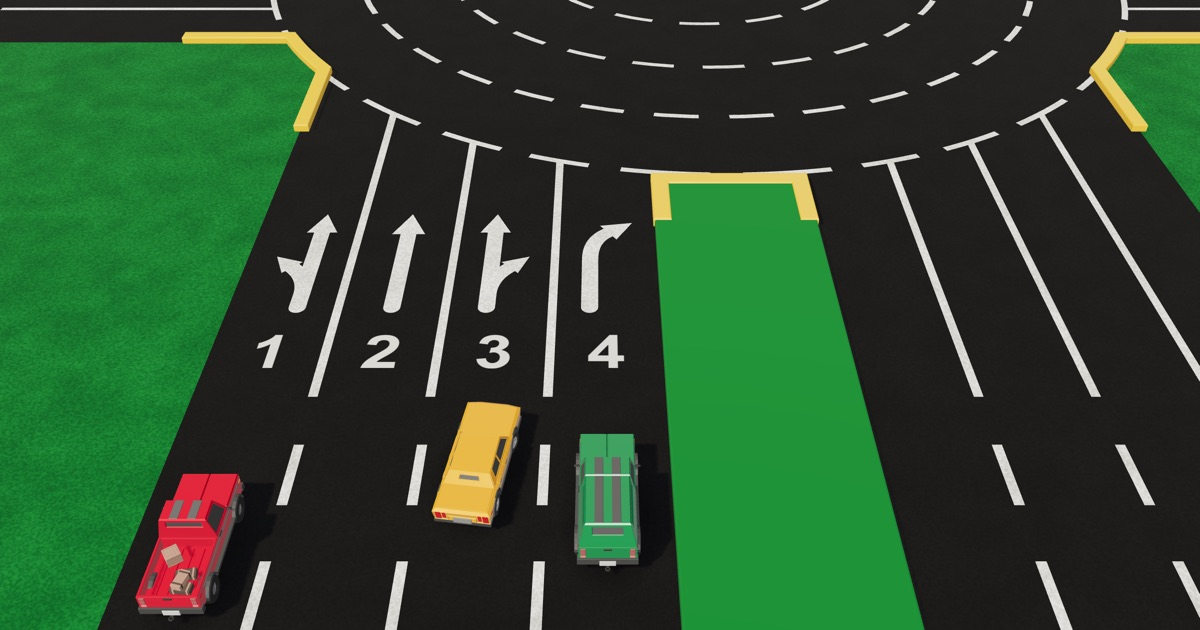
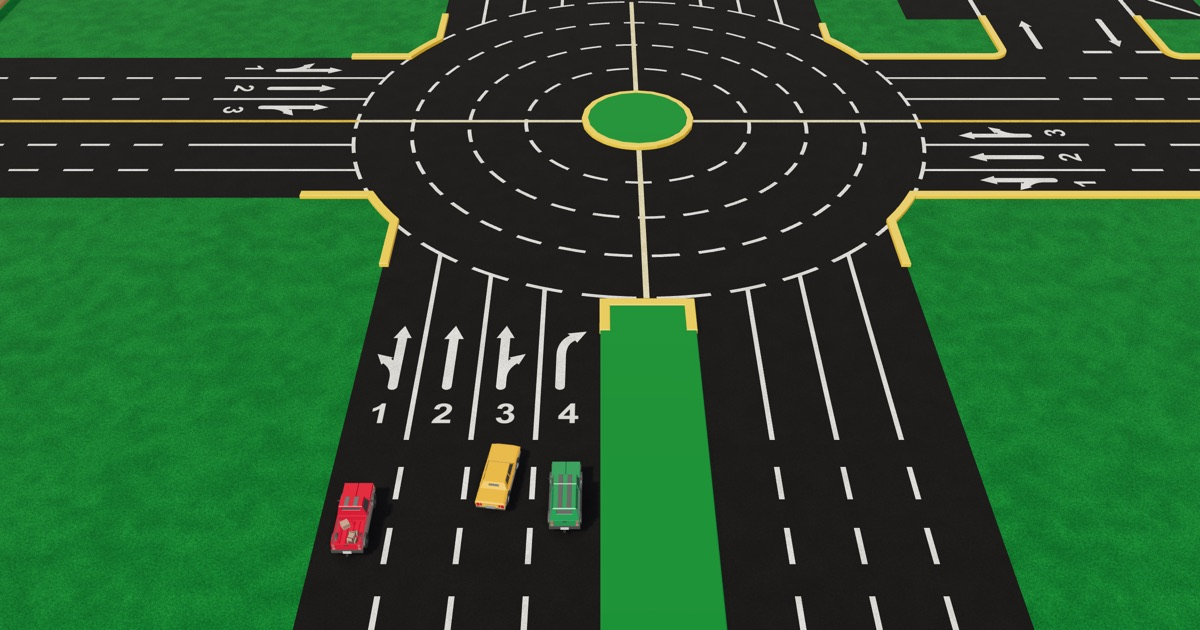
chore: recapture the board thumbnail with the roundabout cross
Widen the 3D still so the whole roundabout and its pale yellow cross are in
frame, with the lanes, their numbers and all three cars. Recaptured
poster.jpg, poster-2400.jpg and the board's social card from it.

diff --git a/app/routes/tools/og.tsx b/app/routes/tools/og.tsx
@@ -427,10 +427,11 @@ const STILL_CARS = [
 const STILL = {
   // The moment the game is about: four numbered lanes and the roundabout
   // ahead, and a lane to choose. Seen from behind the car, as on a phone.
+  // Wide enough for the whole roundabout and its cross (2026-11-21).
   seat: "south",
-  x: -5,
-  z: 31,
-  span: 40,
+  x: -3,
+  z: 24,
+  span: 76,
   car: { x: -8.4, z: 38, heading: 8 },
   steer: 0.25,
   // on the roundabout instead, with `?at=<degrees>`
